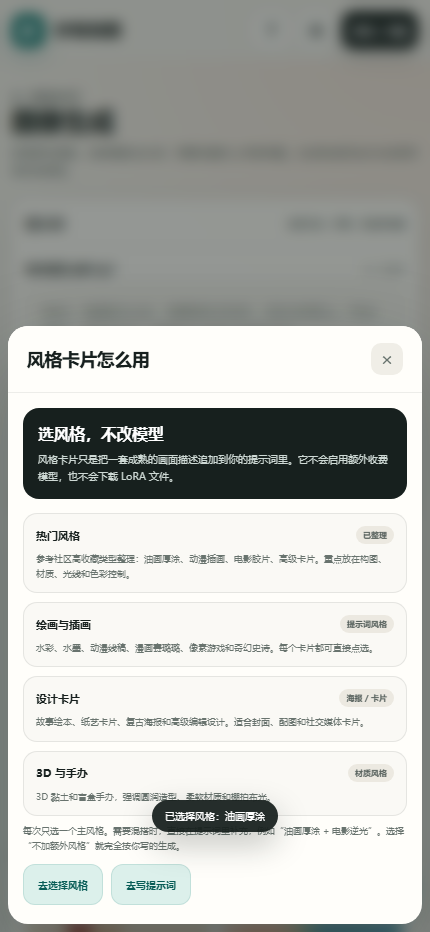
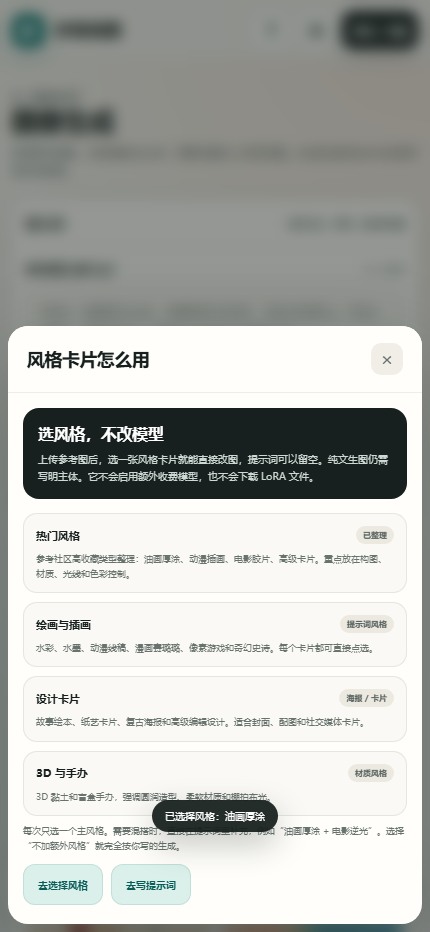
release: allow style-only image-to-image in 1.3.1

Changed region(s): [[0.0907, 0.4667, 0.907, 0.529]]

diff --git a/android/app/src/main/assets/index.html b/android/app/src/main/assets/index.html
@@ -1008,13 +1008,13 @@
           </div>
           <div class="card-body">
             <div class="prompt-label">
-              <strong>你希望生成什么？</strong>
+              <strong id="promptTitle">你希望生成什么？</strong>
               <span id="charCount">0 / 10000</span>
             </div>
             <textarea id="prompt" maxlength="10000"
               placeholder="例如：清晨的山谷，薄雾穿过松林，远处有雪山，写实摄影，柔和逆光，画面中央留出标题空间"></textarea>
             <div class="prompt-footer">
-              <span class="hint">写的细节越多，画面越接近你的想法。使用参考图时可以写“保留原图人物，改成水彩风格”。</span>
+              <span class="hint" id="promptHint">文生图请写清楚主体、环境和光线。上传参考图并选择风格后，这里可以不写。</span>
               <button class="text-button" id="clearPromptBtn" type="button">清空</button>
             </div>
           </div>
@@ -1033,7 +1033,7 @@
             <button class="filter-chip" type="button" data-category="3d">3D 手办</button>
           </div>
           <div class="style-grid" id="styleGrid"></div>
-          <p class="style-note">这些是社区常见、收藏较多的风格类型，不是额外模型。每次只选一个主风格；需要混合风格时可直接写进提示词。</p>
+          <p class="style-note">上传参考图后，点一张风格卡片就能直接改图，不写提示词也可以。这些是热门风格的提示词版，不是额外 LoRA 模型。</p>
         </section>
 
         <section class="card">
@@ -1138,7 +1138,7 @@
         <div class="update-box">
           <div class="update-head">
             <strong>应用更新</strong>
-            <span class="version-text" id="versionText">当前版本 1.3.0</span>
+            <span class="version-text" id="versionText">当前版本 1.3.1</span>
           </div>
           <p class="update-message" id="updateMessage">从 GitHub Releases 检查新版本。</p>
           <div class="button-row">
@@ -1159,7 +1159,7 @@
       <div class="modal-body">
         <div class="style-intro">
           <strong>选风格，不改模型</strong>
-          <p>风格卡片只是把一套成熟的画面描述追加到你的提示词里。它不会启用额外收费模型，也不会下载 LoRA 文件。</p>
+          <p>上传参考图后，选一张风格卡片就能直接改图，提示词可以留空。纯文生图仍需写明主体。它不会启用额外收费模型，也不会下载 LoRA 文件。</p>
         </div>
 
         <div class="model-guide">
@@ -1457,6 +1457,7 @@
         button.addEventListener("click", () => {
           selectedStyleId = style.id;
           renderStyleCards();
+          updatePromptMode();
           if (style.id !== "none") showToast(`已选择风格：${style.name}`);
         });
         styleGrid.appendChild(button);
@@ -1551,6 +1552,18 @@
       $("charCount").textContent = `${promptInput.value.length} / 10000`;
     }
 
+    function updatePromptMode() {
+      const canGenerateFromReference = !!referenceDataUrl && selectedStyleId !== "none";
+      $("promptTitle").textContent = canGenerateFromReference
+        ? "补充要求（可选）" : "你希望生成什么？";
+      promptInput.placeholder = canGenerateFromReference
+        ? "可以不写；也可以补充颜色、背景、服装、光线等要求"
+        : "例如：清晨的山谷，薄雾穿过松林，远处有雪山，写实摄影，柔和逆光，画面中央留出标题空间";
+      $("promptHint").textContent = canGenerateFromReference
+        ? "已上传参考图并选择风格，直接点“生成图片”即可；这里的文字只用于补充细节。"
+        : "文生图请写清楚主体、环境和光线。上传参考图并选择风格后，这里可以不写。";
+    }
+
     function updateConnectionState() {
       const hasMiaoji = !!(bridge() && bridge().hasKey());
       const state = $("connectionState");
@@ -1567,6 +1580,7 @@
       referenceImage.removeAttribute("src");
       referencePreview.hidden = true;
       referenceZone.hidden = false;
+      updatePromptMode();
     }
 
     function setReferenceFromFile(file) {
@@ -1593,6 +1607,7 @@
           referenceName.textContent = file.name || "reference.jpg";
           referencePreview.hidden = false;
           referenceZone.hidden = true;
+          updatePromptMode();
         };
         image.onerror = () => showToast("图片读取失败，请换一张");
         image.src = String(reader.result || "");
@@ -1717,9 +1732,15 @@
     function startGeneration() {
       if (busy) return;
       const prompt = promptInput.value.trim();
-      if (!prompt) {
+      const selectedStyle = STYLE_CARDS.find((style) => style.id === selectedStyleId)
+        || STYLE_CARDS[0];
+      const hasStyle = selectedStyle.id !== "none";
+      const canUseStyleOnly = !!referenceDataUrl && hasStyle;
+      if (!prompt && !canUseStyleOnly) {
         promptInput.focus();
-        showToast("请先填写提示词");
+        showToast(referenceDataUrl
+          ? "请写一句想怎么改，或先选择一张风格卡片"
+          : "文生图需要先写清楚想生成什么");
         return;
       }
       if (!requiredProviderReady()) {
@@ -1729,12 +1750,11 @@
         return;
       }
 
-      const selectedStyle = STYLE_CARDS.find((style) => style.id === selectedStyleId);
-      const style = selectedStyle ? selectedStyle.prompt : "";
+      const style = hasStyle ? selectedStyle.prompt : "";
       const referencePrefix = referenceDataUrl
-        ? "请以参考图为核心，保留原图最重要的主体、构图和身份特征，再按提示词修改。"
+        ? "请严格以参考图作为原始依据，保留原图中的主体身份、姿势、主要物体、构图和关键细节，再按下面的风格要求完成改图。"
         : "";
-      const fullPrompt = [referencePrefix, prompt, style].filter(Boolean).join("\n\n");
+      const fullPrompt = [referencePrefix, style, prompt].filter(Boolean).join("\n\n");
       const cents = estimateCents();
       if (cents > 6) {
         if (!window.confirm(`当前档位官网预扣约 ¥${(cents / 100).toFixed(2)}，超过平时设定的 0.06 元低价红线。确定继续吗？`)) {
@@ -1938,10 +1958,11 @@
       fillSelect(sizeSelect, SIZE_OPTIONS, "1:1");
       renderModels("gpt-image-2.5-flare");
       renderStyleCards();
+      updatePromptMode();
       updateCharCount();
       updateConnectionState();
       $("versionText").textContent = bridge()
-        ? `当前版本 ${bridge().currentVersion()}` : "当前版本 1.3.0";
+        ? `当前版本 ${bridge().currentVersion()}` : "当前版本 1.3.1";
 
       if (!isPreview && bridge() && !bridge().hasKey()) {
         openModal(settingsModal);

diff --git a/android/app/src/main/java/com/codex/miaojipaint/MainActivity.java b/android/app/src/main/java/com/codex/miaojipaint/MainActivity.java
@@ -234,7 +234,7 @@ public class MainActivity extends Activity {
             try {
                 return getPackageManager().getPackageInfo(getPackageName(), 0).versionName;
             } catch (Exception error) {
-                return "1.3.0";
+                return "1.3.1";
             }
         }
 
@@ -543,7 +543,7 @@ public class MainActivity extends Activity {
         try {
             return getPackageManager().getPackageInfo(getPackageName(), 0).versionName;
         } catch (Exception error) {
-            return "1.3.0";
+            return "1.3.1";
         }
     }
 

diff --git a/README.md b/README.md
@@ -9,6 +9,7 @@
 - 使用妙极 MAGE 图像模型，不额外接入第三方开源模型平台。
 - 热门风格卡片：油画厚涂、水彩、水墨、动漫、漫画线稿、胶片、纸艺卡片、复古海报、3D 黏土、盲盒手办等。
 - 风格卡片只追加提示词，不切换模型、不下载 LoRA、不产生额外模型费用。
+- 图生图可“上传图片 + 选择风格”直接生成，不需要填写提示词；提示词仅用于补充要求。
 - 图片生成完成后只在应用内预览，必须手动点击“保存到手机”。
 - “登录 / 充值”直达妙极官网登录/注册页面。
 - GitHub Releases 检查更新。
